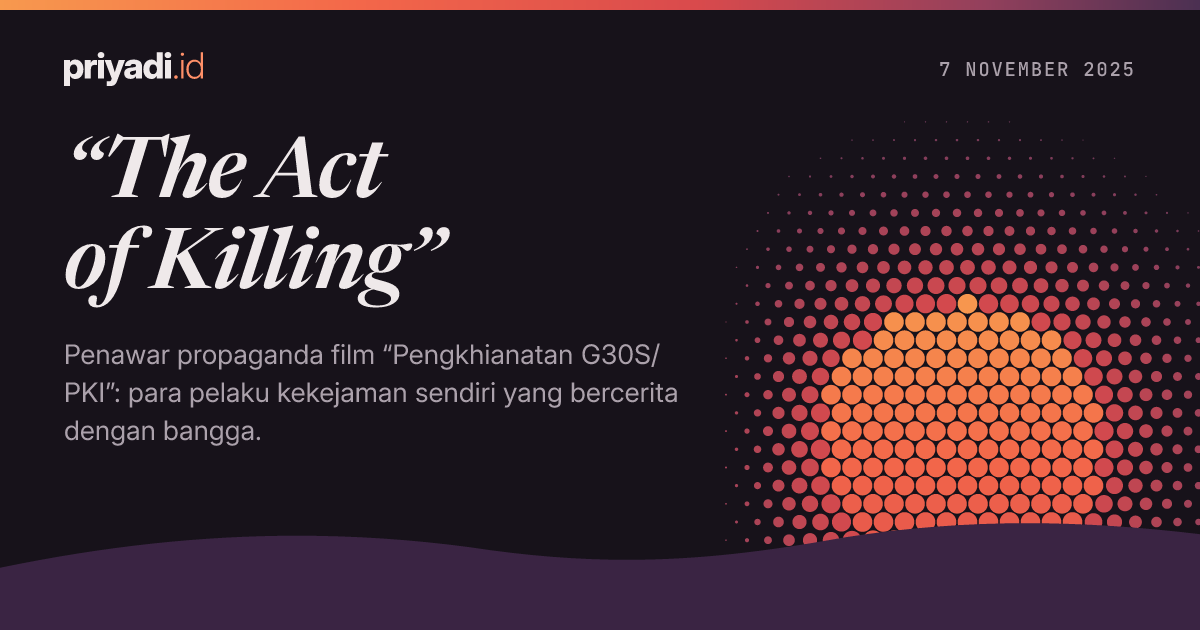
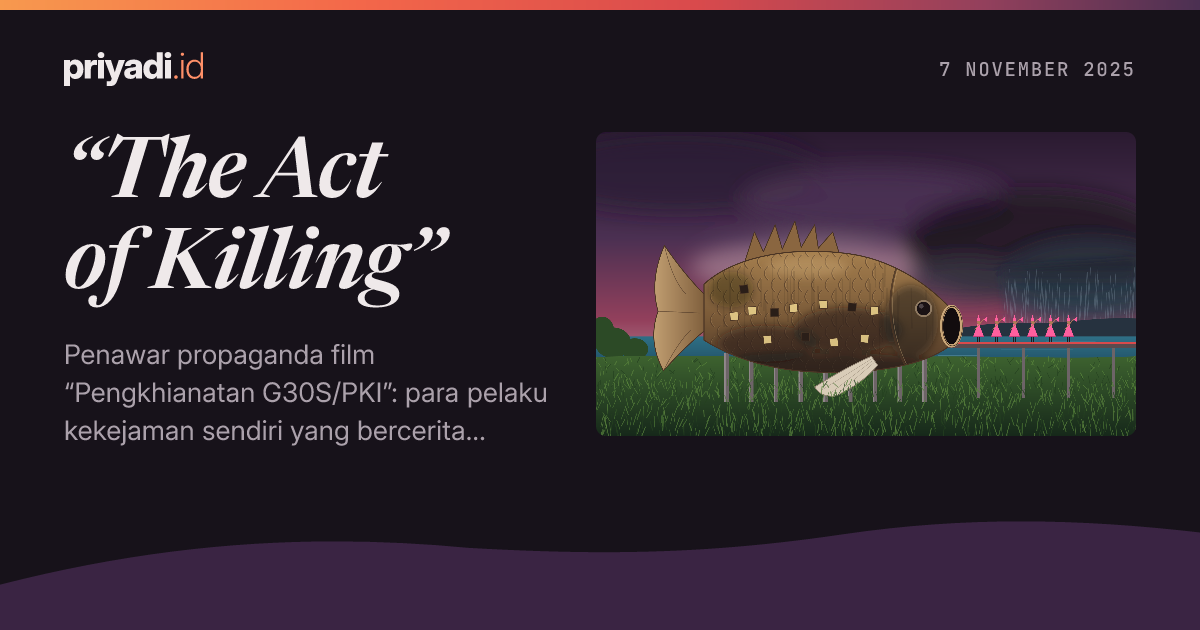
act of killing

Changed region(s): [[0.0308, 0.2111, 1.0, 0.9048], [0.0, 0.8444, 0.37, 0.9349]]

diff --git a/blog/2025-11/07-the-act-of-killing/index.md b/blog/2025-11/07-the-act-of-killing/index.md
@@ -5,7 +5,8 @@ authors: priyadi
 tags: [sejarah, politik]
 image: ./socialcard.png
 socialcard:
-  variant: pattern
+  variant: figure
+  image: ./ikan.png
 ---
 
 Selama lebih dari satu dekade, antara tahun 1984 sampai 1998, menonton film
@@ -15,6 +16,8 @@ Baru menggunakan film ini sebagai alat propaganda untuk melakukan glorifikasi
 terhadap penguasa saat itu, dan untuk menutupi kekejaman yang dilakukan oleh
 militer dan kelompok paramiliter pro-militer terhadap rakyat Indonesia yang
 terjadi pada akhir 1960-an dan awal 1970-an.
+
+![Ilustrasi: patung ikan mas raksasa dari beton yang lapuk di atas tiang-tiang di padang rumput, mulutnya terbuka ke jalan berkarpet merah tempat para penari berjajar, dengan badai datang di atas danau.](./ikan.png#wide)
 
 Walaupun sekarang kita tahu bahwa film tersebut adalah propaganda, proses
 *brainwashing* bertahun-tahun ternyata masih mempengaruhi perilaku kita sampai
